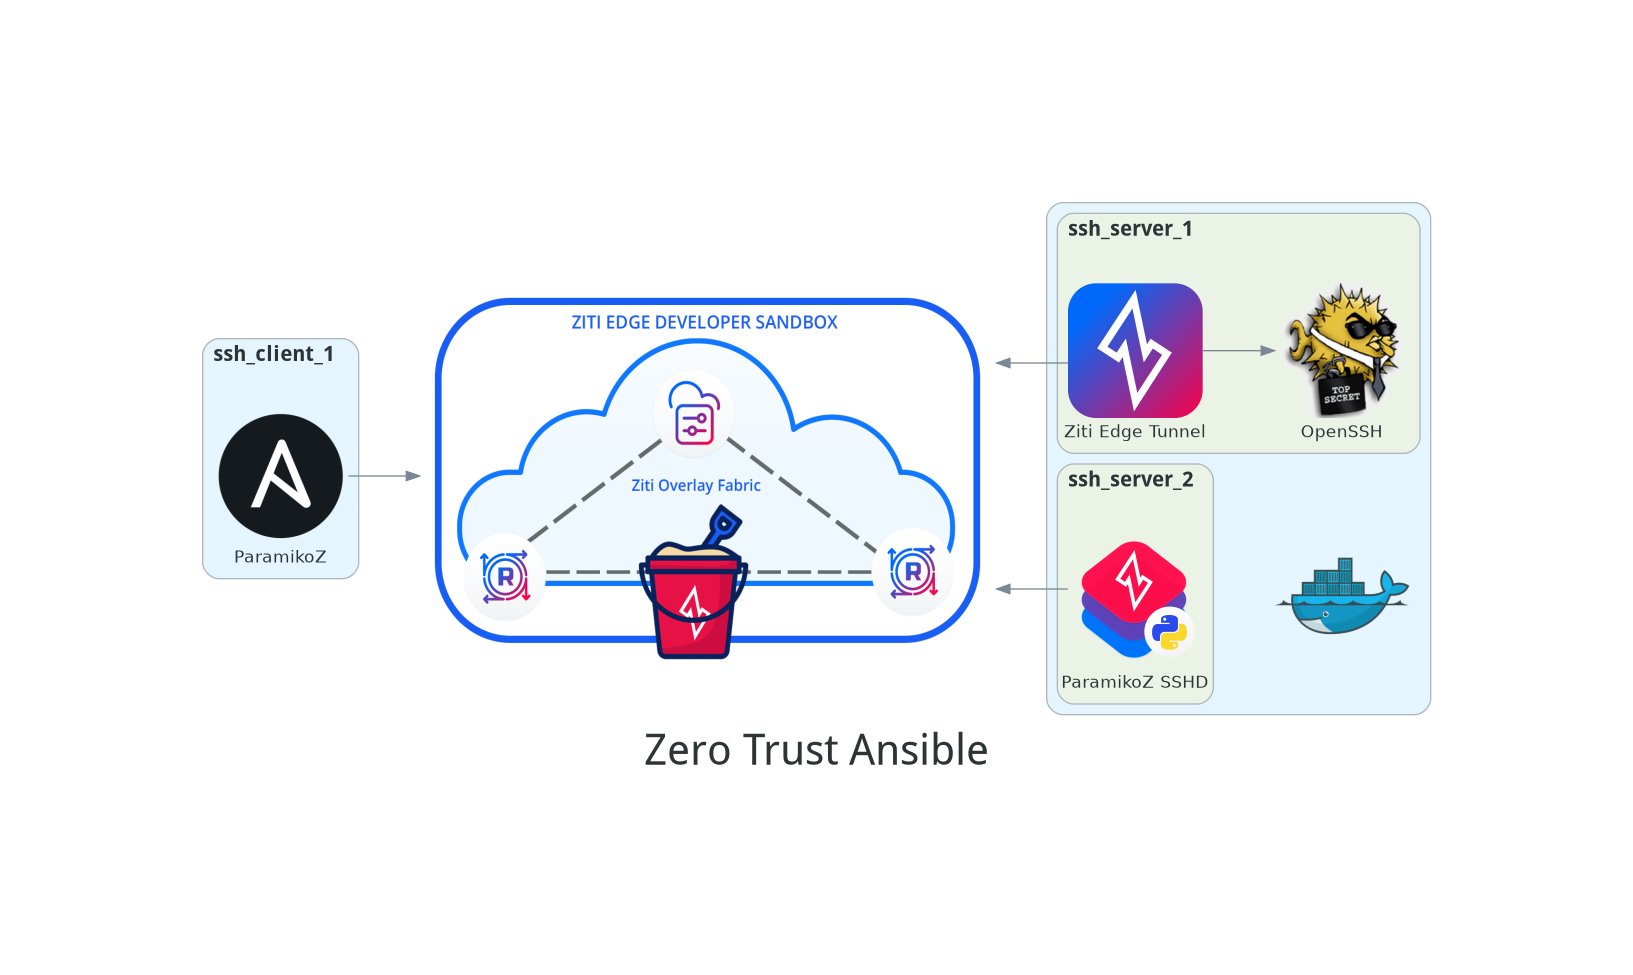
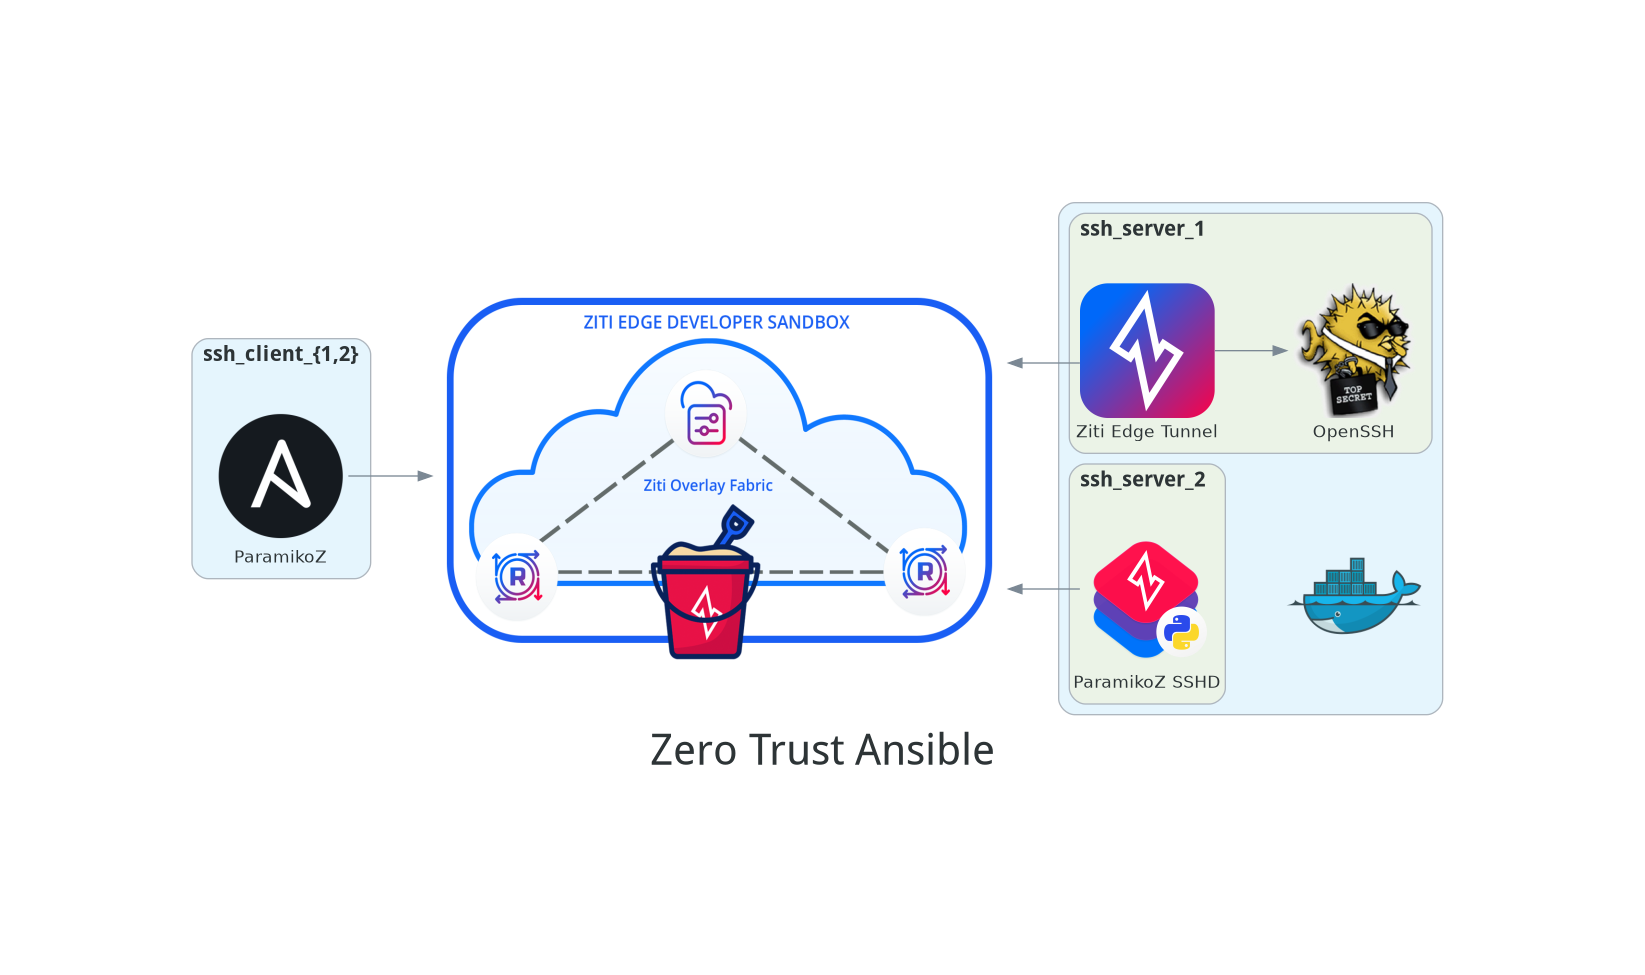
Reflect setup in diagram

diff --git a/diagrams/diagram.py b/diagrams/diagram.py
@@ -17,9 +17,12 @@ cluster_attr = {
 }
 
 with Diagram("Zero Trust Ansible", graph_attr=graph_attr):
-    with Cluster("ssh_client_1", graph_attr=cluster_attr):
+    with Cluster("ssh_client_{1,2}", graph_attr=cluster_attr):
         ansible_client = Ansible("ParamikoZ")
-    zeds = Custom("", "./assets/ZEDS.png", height="4", width="6", imagescale="false")
+    zeds = Custom(
+        "", "./assets/ZEDS.png",
+        height="4", width="6", imagescale="false"
+    )
 
     with Cluster(""):
         docker = Docker()
